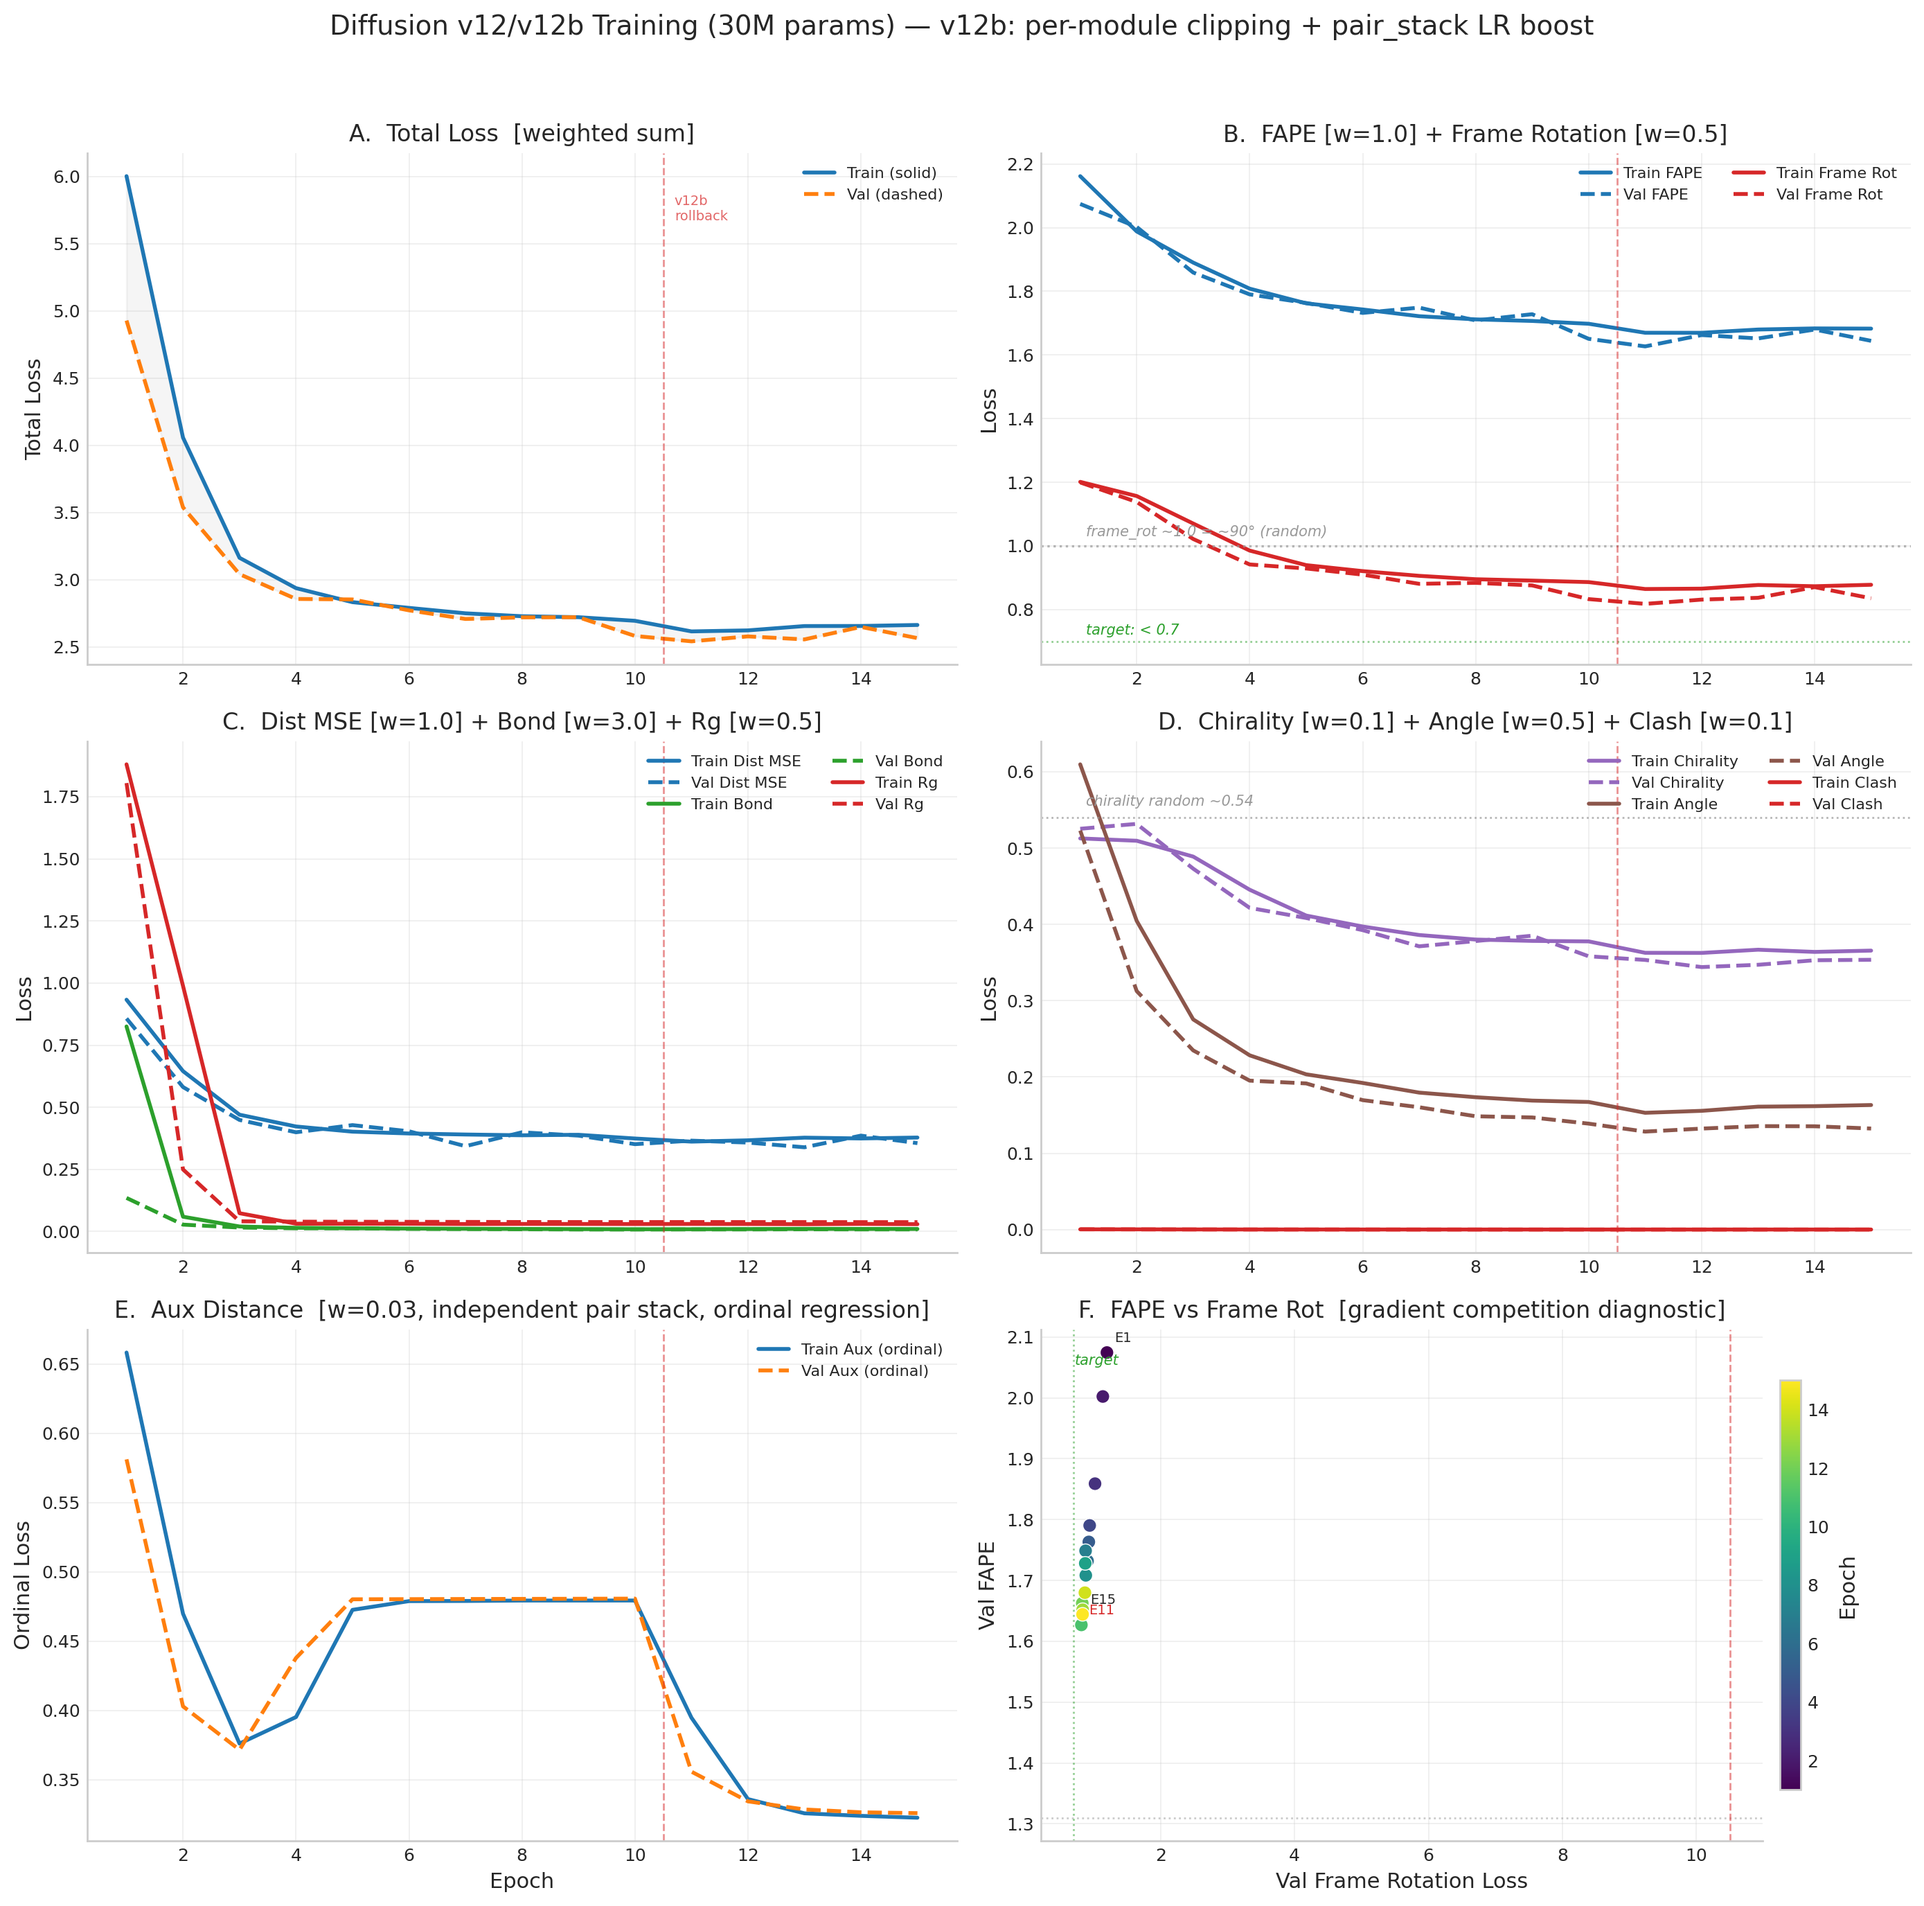
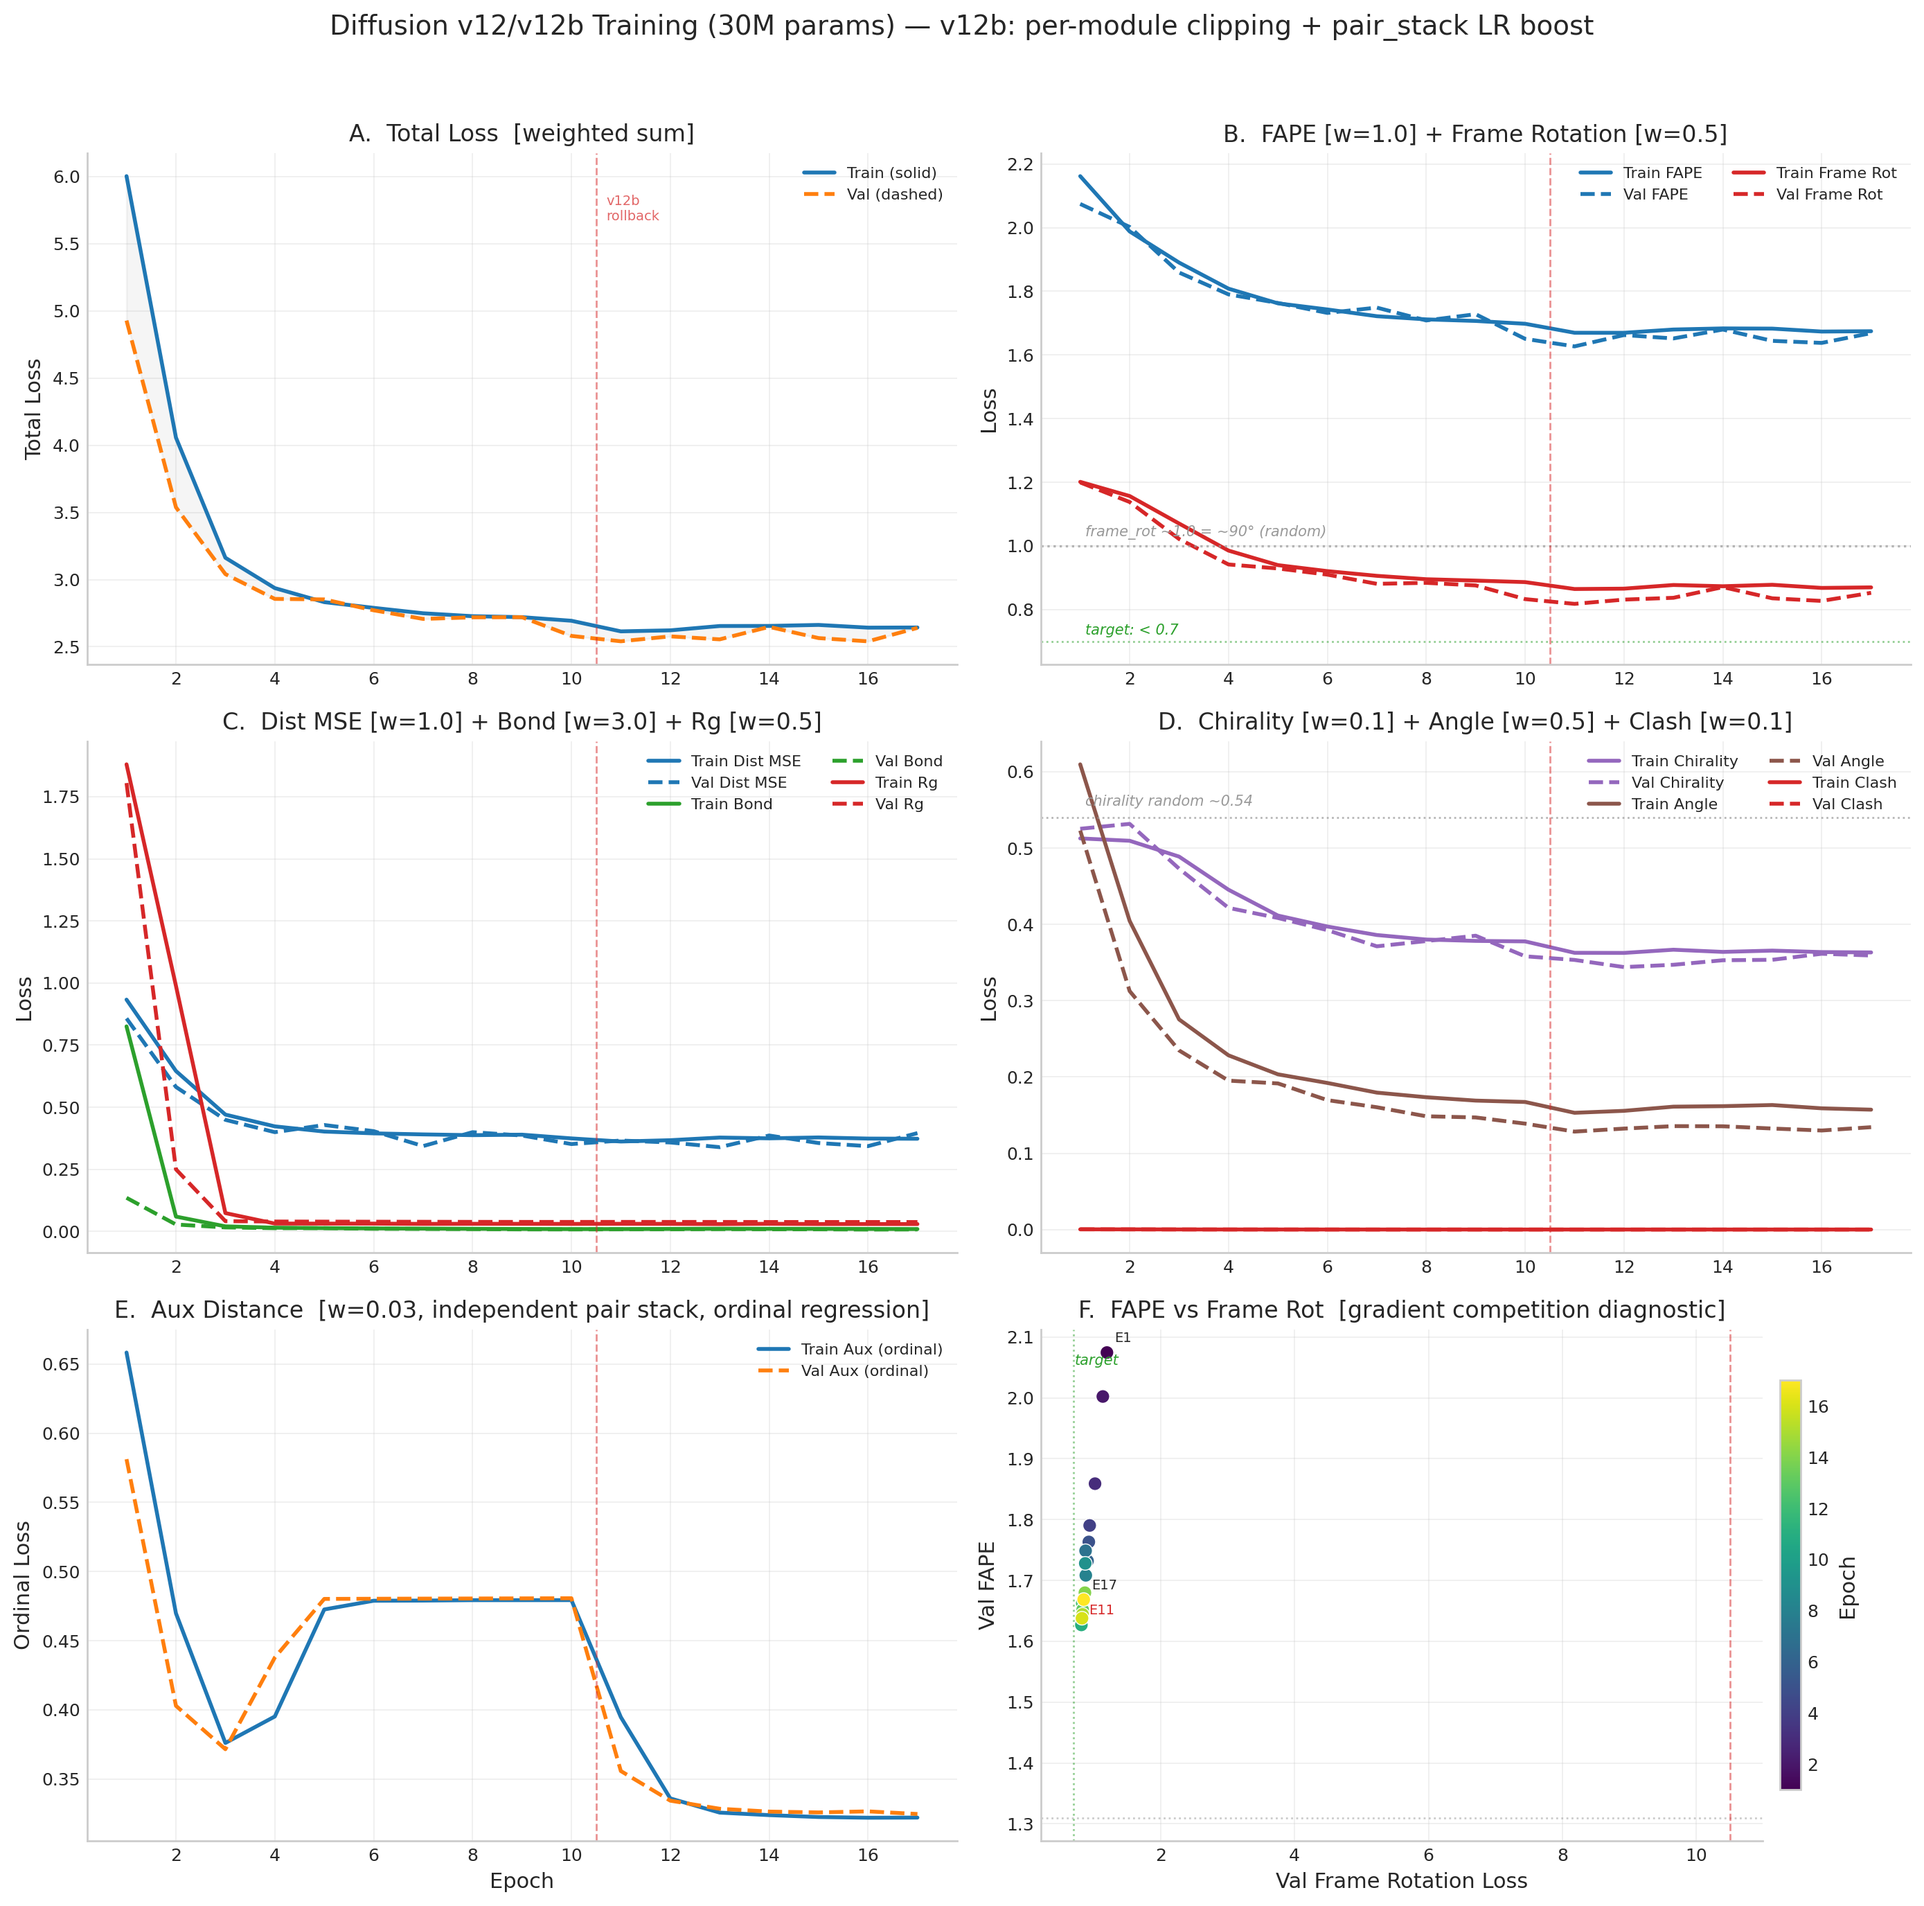
v12b E6-E7: TM 0.113, RMSD 16.47A — significant DDIM improvement
- E6: val FAPE 1.638, frame_rot 0.827, DDIM TM 0.108, RMSD 16.80A
- E7: DDIM TM 0.113 (+10.8% vs v12 E10 peak), RMSD 16.47A (new best)
- GDT-TS 5.5% (first time above 5%)
- DDIM metrics improving steadily while val loss holds near E10 levels
- Pair_stack fix is working — model continues learning past where v12 collapsed

diff --git a/index.html b/index.html
@@ -1468,6 +1468,28 @@
                 <td>17.02&Aring;</td>
                 <td><span class="tag tag-pat">pat 4</span></td>
               </tr>
+              <tr style="background: rgba(31, 119, 180, 0.08);">
+                <td>b6</td>
+                <td>2.540</td>
+                <td style="color: #2ca02c;"><strong>1.638</strong></td>
+                <td style="color: #2ca02c;"><strong>0.827</strong></td>
+                <td>0.343</td>
+                <td>0.007</td>
+                <td style="color: #2ca02c;"><strong>0.108</strong></td>
+                <td style="color: #2ca02c;"><strong>16.80&Aring;</strong></td>
+                <td><span class="tag tag-pat">pat 5</span></td>
+              </tr>
+              <tr style="background: rgba(31, 119, 180, 0.12);">
+                <td>b7</td>
+                <td>2.641</td>
+                <td>1.668</td>
+                <td>0.852</td>
+                <td>0.396</td>
+                <td>0.008</td>
+                <td style="color: #2ca02c;"><strong>0.113</strong></td>
+                <td style="color: #2ca02c;"><strong>16.47&Aring;</strong></td>
+                <td><span class="tag tag-pat">pat 6</span></td>
+              </tr>
             </tbody>
           </table>
         </div>
@@ -1767,7 +1789,7 @@
           </details>
         </div>
         <div style="color: var(--text-secondary); font-size: 0.85em; margin-top: 8px;" id="v9-last-updated">
-          Last updated: 2026-03-10 20:07 UTC
+          Last updated: 2026-03-10 21:07 UTC
         </div>
 
         <!-- v10 Historical Results (collapsed) -->
